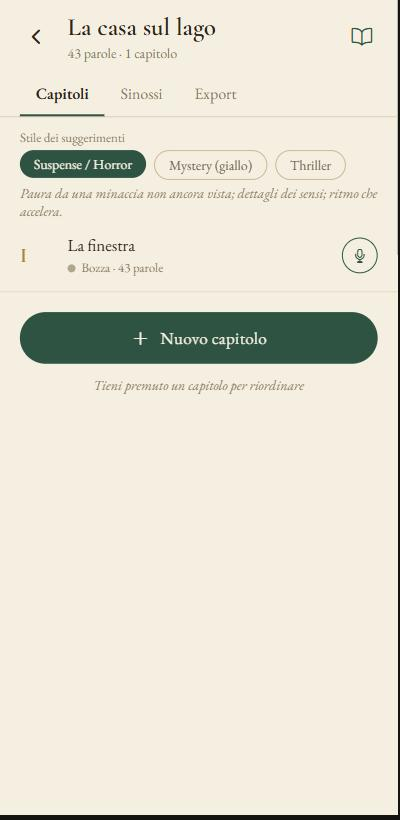
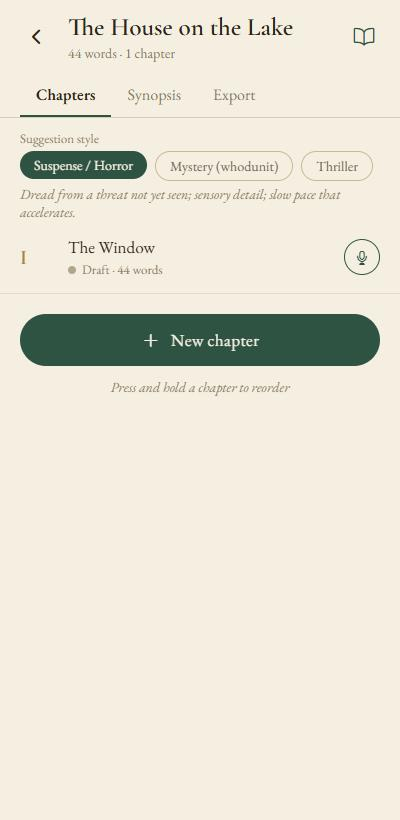
Default new books to the UI language, add a UI language override, English README screenshots

diff --git a/README.md b/README.md
@@ -33,6 +33,8 @@ tells you what Amazon would reject before you upload.
 - **Export** to EPUB (checked with EPUBCheck, the W3C conformance checker) and DOCX, plus a Markdown
   backup of the raw text.
 - Notes, daily word goals and streaks.
+- English and Italian interface: the app follows the device language (`EXPO_PUBLIC_UI_LANG`
+  forces one), and a new book is created in the interface language, which the AI uses.
 
 <p>
   <img src="docs/images/book-styles.jpg" alt="Book screen with the style picker: Suspense / Horror, Mystery, Thriller" width="240">
@@ -40,7 +42,7 @@ tells you what Amazon would reject before you upload.
   <img src="docs/images/review-suggestions.jpg" alt="Suggestion cards with a reason and up to three proposals to accept or reject" width="240">
 </p>
 
-*Screenshots of the app (Italian UI) running on the Firebase emulators, with real suggestions
+*Screenshots of the app running on the Firebase emulators, with real suggestions
 from Amazon Nova Pro in the Suspense / Horror style.*
 
 ## How it works
